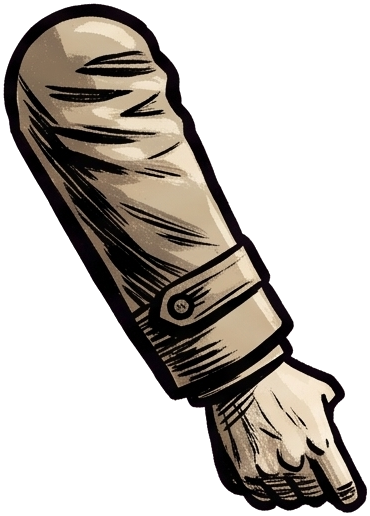
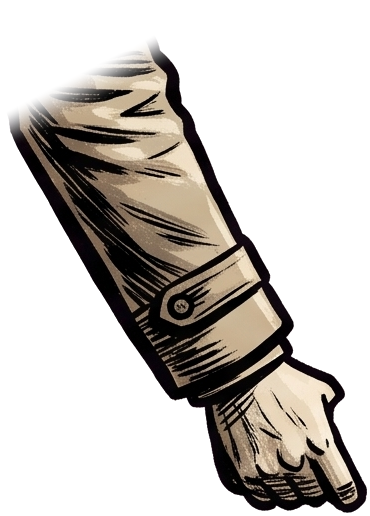
Frank's elbow: forearm fades in at the joint, no inked ring

Changed region(s): [[0.0, 0.0, 0.4459, 0.2791]]

diff --git a/gen/elbow_soft.py b/gen/elbow_soft.py
@@ -1,0 +1,31 @@
+"""(user 25. 11.: "why does the elbow look like a puppet again") Frank's forearm drawing starts with a thick inked round cap,
+which drew a black ring across the upper arm at every bend - two puppet pieces. The forearm now starts AT the elbow joint,
+fading in over a short band; the upper arm's own rounded end (under it) is the elbow.
+usage: py -3 gen/elbow_soft.py <png> ax ay bx by <t from> <t to>   (alpha 0 before t from, 1 after t to; the inked source is
+kept in art/_src/<figure>/ the first time - outside the build - and every run starts from it)."""
+import sys, os, shutil
+import numpy as np
+from PIL import Image
+p = sys.argv[1]
+a = np.array([float(sys.argv[2]), float(sys.argv[3])]); b = np.array([float(sys.argv[4]), float(sys.argv[5])])
+t0, t1 = float(sys.argv[6]), float(sys.argv[7])
+fig, name = os.path.split(p)
+srcdir = os.path.join(os.path.dirname(fig), "_src", os.path.basename(fig))
+os.makedirs(srcdir, exist_ok=True)
+keep = os.path.join(srcdir, name)
+if not os.path.exists(keep):
+    shutil.copy(p, keep)
+for src, dst in ((keep, p), (keep.replace(".png", "_n.png"), p.replace(".png", "_n.png"))):
+    if src != keep and not os.path.exists(src):
+        if not os.path.exists(dst):
+            continue
+        shutil.copy(dst, src)
+    im = np.array(Image.open(src).convert("RGBA")).astype(float)
+    h, w = im.shape[:2]
+    yy, xx = np.mgrid[0:h, 0:w]
+    u = (b - a) / np.dot(b - a, b - a)
+    pr = (xx - a[0]) * u[0] + (yy - a[1]) * u[1]
+    s = np.clip((pr - t0) / (t1 - t0), 0, 1); s = s * s * (3 - 2 * s)
+    im[..., 3] *= s
+    Image.fromarray(im.clip(0, 255).astype(np.uint8)).save(dst)
+    print("faded", dst)

diff --git a/.claude/skills/ashes-znalosti/SKILL.md b/.claude/skills/ashes-znalosti/SKILL.md
@@ -152,3 +152,4 @@ Covers what is in [[HANDOFF|HANDOFF.md]] up to 2026-11-16 (5). Exact current val
    (19) (user 25. 11.: "Frank - mind his coat, check everything, make a better coat animation") Frank runs on the same pipeline (cfg "gait2"/"mocap"). A long coat is SIMULATED (puppet.gd `_coat_spine`: a chain belt -> hem, gravity, the body's inertia x0.3, air drag x2.6, stiff bend limits 0.32/0.22 rad, off the pavement, wrapped along the thighs in a tumble/flight); on a mocap figure NO drawn coat is faded over it (it showed as a pale ghost and stood up like a board in a roll). Anything that steps in time uses the game's frame time once per frame (`_frame_dt`): the figure's `_clock` stops at death (the coat froze in the air) and the wall clock is wrong in the fixed-fps tests. Check a coat in PLAY, not in the moves stills (they pose without physics).
    (20) (user 25. 11.: "the gun is broken in his hand") at ease on a mocap figure the gun follows the FOREARM (angle - 0.3, clamped -1.1..1.35), never a fixed angle: a fixed muzzle-down angle on a raised fist reads as a broken wrist. (user 25. 11. later: "still wrong, no finger on the trigger, draw a reference") a one-hand gun is held by a DRAWN HAND: art/guns/<gun>_hand.png (art_src 364 1911, 365 revolver: bare hand, index on the trigger), the near forearm swaps to <dir>/farm_grip.png (fist cut off, gen/grip_cuff.py) and the hand sprite sits UNDER the cuff at cfg "grip_cuff" (fraction along the forearm), rotated to the gun angle. Never a bare gun pasted over a fist. Two pistols and enemies still use the old way.
    (21) (user 25. 11.: "the collar is an explosion again, and the neck") a collar piece cut from the torso and laid over the head/sleeve (cfg collar_*, its middle above the head anchor + 120 px) turns WITH THE HEAD about the head anchor by the neck angle = look minus the torso's DRAWN tilt (puppet.gd torso_tilt: the mocap torso leans more than `lean`; look - lean left Frank's collar tip over his ear in the run and over his face in the dive). Check heads close up (--test=gait --close, moves dive frames) for every figure with collars.
+   (22) (user 25. 11.: "why does the elbow look like a puppet again") a forearm drawing must NOT start with an inked round cap: it draws a black ring across the upper arm at every bend. Fade it in at the elbow joint (gen/elbow_soft.py, inked source kept in art/_src/<figure>/) so the upper arm's rounded end is the elbow; erasing the ink of both caps instead left a pale blob. Check the near arm close up at aim/shot/aim-down.

diff --git a/HANDOFF.md b/HANDOFF.md
@@ -622,3 +622,4 @@ Read `.claude/skills/ashes-znalosti/SKILL.md` first (stable rules + topic index,
 - (161) 25. 11. Gun at ease (user: "broken, held oddly"): puppet.gd - on mocap figures the gun now lies along the forearm (cocked 0.3 forward, clamped) instead of the fixed 1.2 rad muzzle-down. Checked --test=gait --ease for Eddie and Frank (run + walk). Rule 41 (20).
 - (162) 25. 11. Gun grip (user: "still wrong, no finger on the trigger; have a reference drawn"): Gemini reference + art_src 364 (hand on a 1911) and 365 (hand on a snub revolver) -> art/guns/pistol_hand.png, revolver_hand.png (cut with char_cut). gen/grip_cuff.py cuts the fist off the forearm -> art/detective|eddie2/farm_grip.png. puppet.gd `_set_grip`/`_grip_ok`: cfg "grip_cuff" (Frank 0.88, Eddie 0.77) switches the near gun to the hand drawing, its wrist under the cuff; muzzle() uses the hand muzzle. Off for two pistols, rope, pipe, disarmed. Checked gait (run/walk), moves (aim, shot, reload, switch, jump, dive). TODO: mobsters/bosses and the second pistol in the far hand.
 - (163) 25. 11. Collar (user: "explosion again, and the neck"): Frank's collar_back (torso wing over the sleeve) stood over his ear running and over his face in the flight. puppet.gd: collar pieces near the neck rotate with the head about the head anchor by look - torso_tilt. Tried and dropped: cropping the wing (bare long neck + a cut mark), a second wing under the head (doubled). Checked Frank + Eddie gait close and moves dive frames. Bots not rerun for this (drawing only); the grip change before it passed all 21.
+- (164) 25. 11. Elbow (user: "puppet again"): Frank's farm.png/farm_open.png began with an inked cap = a black ring over the upper arm (also before today). gen/elbow_soft.py fades the forearm in at the joint (t -0.03..0.07); sources in art/_src/detective/; farm_grip.png regenerated from it. Tried and dropped: inpainting the ink of both caps (pale blurred ball). Rule 41 (22).
